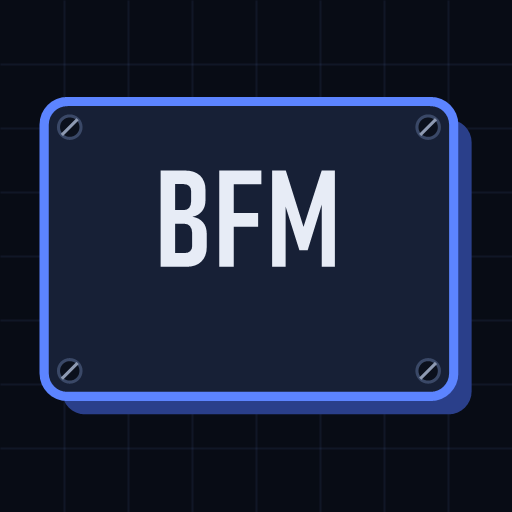
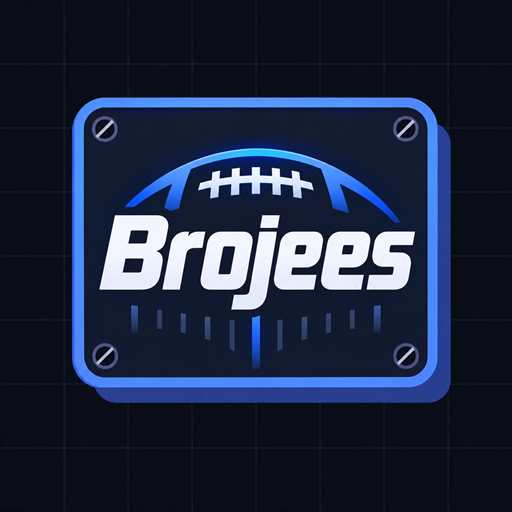
Add files via upload

Changed region(s): [[0.0625, 0.1875, 0.9375, 0.8125]]

diff --git a/index.html b/index.html
@@ -10,6 +10,8 @@
   <meta name="apple-mobile-web-app-status-bar-style" content="black-translucent" />
   <meta name="apple-mobile-web-app-title" content="Brojees" />
   <link rel="manifest" href="manifest.webmanifest" />
+  <link rel="icon" type="image/png" sizes="32x32" href="icons/favicon-32.png" />
+  <link rel="icon" type="image/png" sizes="48x48" href="icons/favicon-48.png" />
   <link rel="icon" type="image/png" sizes="192x192" href="icons/icon-192.png" />
   <link rel="apple-touch-icon" href="icons/apple-touch-icon.png" />
   <title>Brojees Fantasy Menu</title>
@@ -3179,6 +3181,57 @@
       .home-side.theirs .home-proj { justify-content: flex-start; }
       .home-side.theirs button.home-side-name { margin-left: 0; text-align: left; }
     }
+
+    /* ===== V3.2 floating Menu button: inverted so it stands apart from every card ===== */
+    @media (max-width: 760px) {
+      .mobile-nav-toggle {
+        gap: 10px;
+        min-height: 54px;
+        padding: 6px 14px 6px 6px;
+        background: var(--ink);
+        color: var(--surface);
+        border: 2px solid var(--ink);
+        border-radius: 10px;
+        /* Background-coloured ring cuts it out from whatever scrolls underneath. */
+        box-shadow: 0 0 0 3px var(--bg), 6px 6px 0 2px var(--accent);
+      }
+      .mobile-nav-action {
+        gap: 8px;
+        padding: 9px 12px;
+        border-radius: 6px;
+        background: var(--accent);
+        color: var(--accent-ink);
+        font-size: 16px;
+        font-weight: 800;
+        letter-spacing: .12em;
+      }
+      .mobile-nav-current {
+        padding-left: 0;
+        border-left: 0;
+        color: var(--surface);
+        font-size: 15px;
+        font-weight: 800;
+      }
+      .mobile-nav-toggle:active { transform: translate(2px, 2px); box-shadow: 0 0 0 3px var(--bg), 3px 3px 0 2px var(--accent); }
+      .dashboard-nav.is-dragging .mobile-nav-toggle {
+        background: var(--ink);
+        box-shadow: 0 0 0 3px var(--bg), 9px 9px 0 2px var(--accent);
+      }
+      .dashboard-nav.is-open .mobile-nav-action { background: var(--surface); color: var(--text); }
+      .mobile-nav-toggle:focus-visible { outline: 3px solid var(--accent); outline-offset: 5px; }
+
+      /* Two attention pulses when the page first loads. */
+      @keyframes nav-beacon {
+        0% { box-shadow: 0 0 0 3px var(--bg), 6px 6px 0 2px var(--accent), 0 0 0 3px rgb(var(--accent-rgb) / .7); }
+        100% { box-shadow: 0 0 0 3px var(--bg), 6px 6px 0 2px var(--accent), 0 0 0 18px rgb(var(--accent-rgb) / 0); }
+      }
+      .mobile-nav-toggle { animation: nav-beacon 1.1s ease-out .6s 2 both; }
+
+      .dashboard-nav .tabs {
+        border: 2px solid var(--ink);
+        box-shadow: 0 0 0 3px var(--bg), 6px 6px 0 2px var(--accent);
+      }
+    }
   </style>
 </head>
 <body>
@@ -3665,9 +3718,10 @@
     const DEFAULT_LEAGUE_ID = '1388977201008877568';
     const DEFAULT_ESPN_PROJECTION_PROXY_URL = 'https://brojees-espn-proxy.nathanraschella.workers.dev/';
     const CACHE_TTL_MS = 24 * 60 * 60 * 1000;
-    const APP_VERSION = '3.1';
+    const APP_VERSION = '3.2';
     const PLAYER_ROW_SELECTOR = '[data-player-id].player-row, [data-player-id].match-player, [data-player-id].waiver-player-row, [data-player-id].projection-player-card, [data-player-id].transaction-player, [data-player-id].leader-row, [data-player-id].team-leader-player, [data-player-id].team-roster-row, [data-player-id].home-player';
     const PATCH_NOTES = [
+      { version: '3.2', note: 'New Brojees logo for the app icon, Home Screen icon and browser tab. The floating Menu button on phones now stands out: an inverted button with a solid blue Menu block and a blue offset shadow, and it pulses twice when the page opens so it\'s easy to find.' },
       { version: '3.1', note: 'New My Week home screen: your live score vs your opponent with an estimated win chance, lineup warnings, the best possible lineup (points you could add by swapping in bench players), FAAB and waiver position, and a Start/Sit comparison with Orig, Live, Sleeper, ESPN and consensus projections. New League tab with weekly awards (high score, blowout, luckiest win, bench blunder and more), power rankings from all-play records, and all-time head-to-head history including past seasons. Links to tabs, matchups, teams and players can be shared to the group chat, and the phone Back button closes popups. Pull down to refresh on phones, with an "Updated 12s ago" stamp. Install it as an app from your browser (Add to Home Screen on iPhone). The floating Menu button now starts in the bottom-right corner and opens upward.' },
       { version: '3.0', note: 'New hard-edged cards and solid offset shadows, condensed labels, monospace numbers and numbered sections. The header now has a live clock and sync light, searches look like a command line (press / to jump to search), game states use indicator lights, and empty states read like a terminal. Choose Paper, Dark or Auto (follows your device) from the header; the choice is saved on this device.' },
       { version: '2.9', note: 'Select any team in Current Standings to open a team popup: live current-week matchup with actual, original and live projected scores for both sides, full lineups, a lineup check (empty slots, byes, injury tags), season record/PF/PA/FAAB, recent form and lineup efficiency, the live standings forecast, a position-grouped roster with season points and weekly projections, and this week\'s moves. Opponent names open their team; players open the player popup. Live Projected Standings rows also get an Open team details button.' },

diff --git a/sw.js b/sw.js
@@ -2,8 +2,8 @@
 // The page itself is network-first, so a new index.html shows up on the next open;
 // the cached copy is only used when the network is down. League data (Sleeper,
 // ESPN, the Brojees Workers) is never cached here: it always comes live.
-const CACHE = 'brojees-shell-v3.1';
-const SHELL = ['./', './index.html', './manifest.webmanifest', './icons/icon-192.png', './icons/icon-512.png', './icons/apple-touch-icon.png'];
+const CACHE = 'brojees-shell-v3.2';
+const SHELL = ['./', './index.html', './manifest.webmanifest', './icons/icon-192.png', './icons/icon-512.png', './icons/apple-touch-icon.png', './icons/favicon-32.png', './icons/favicon-48.png'];
 
 self.addEventListener('install', event => {
   event.waitUntil(
